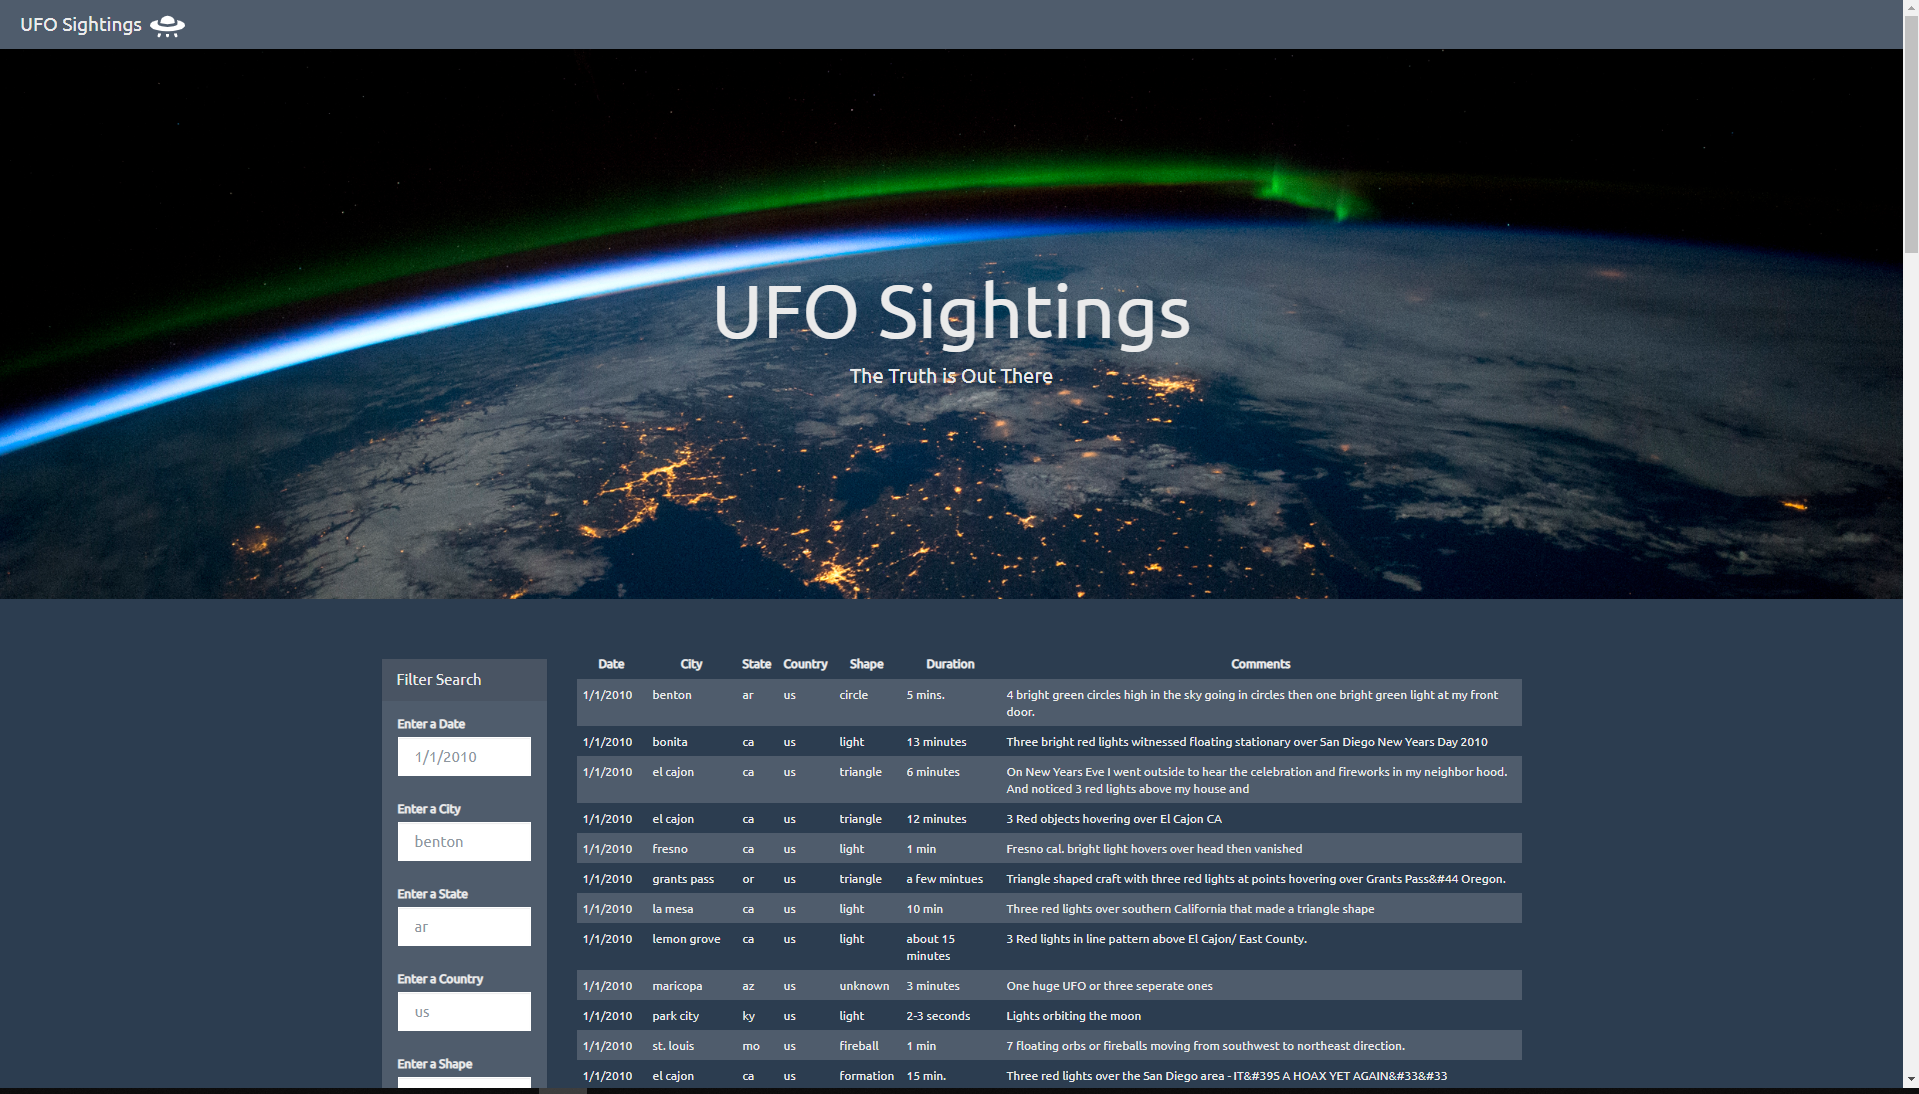
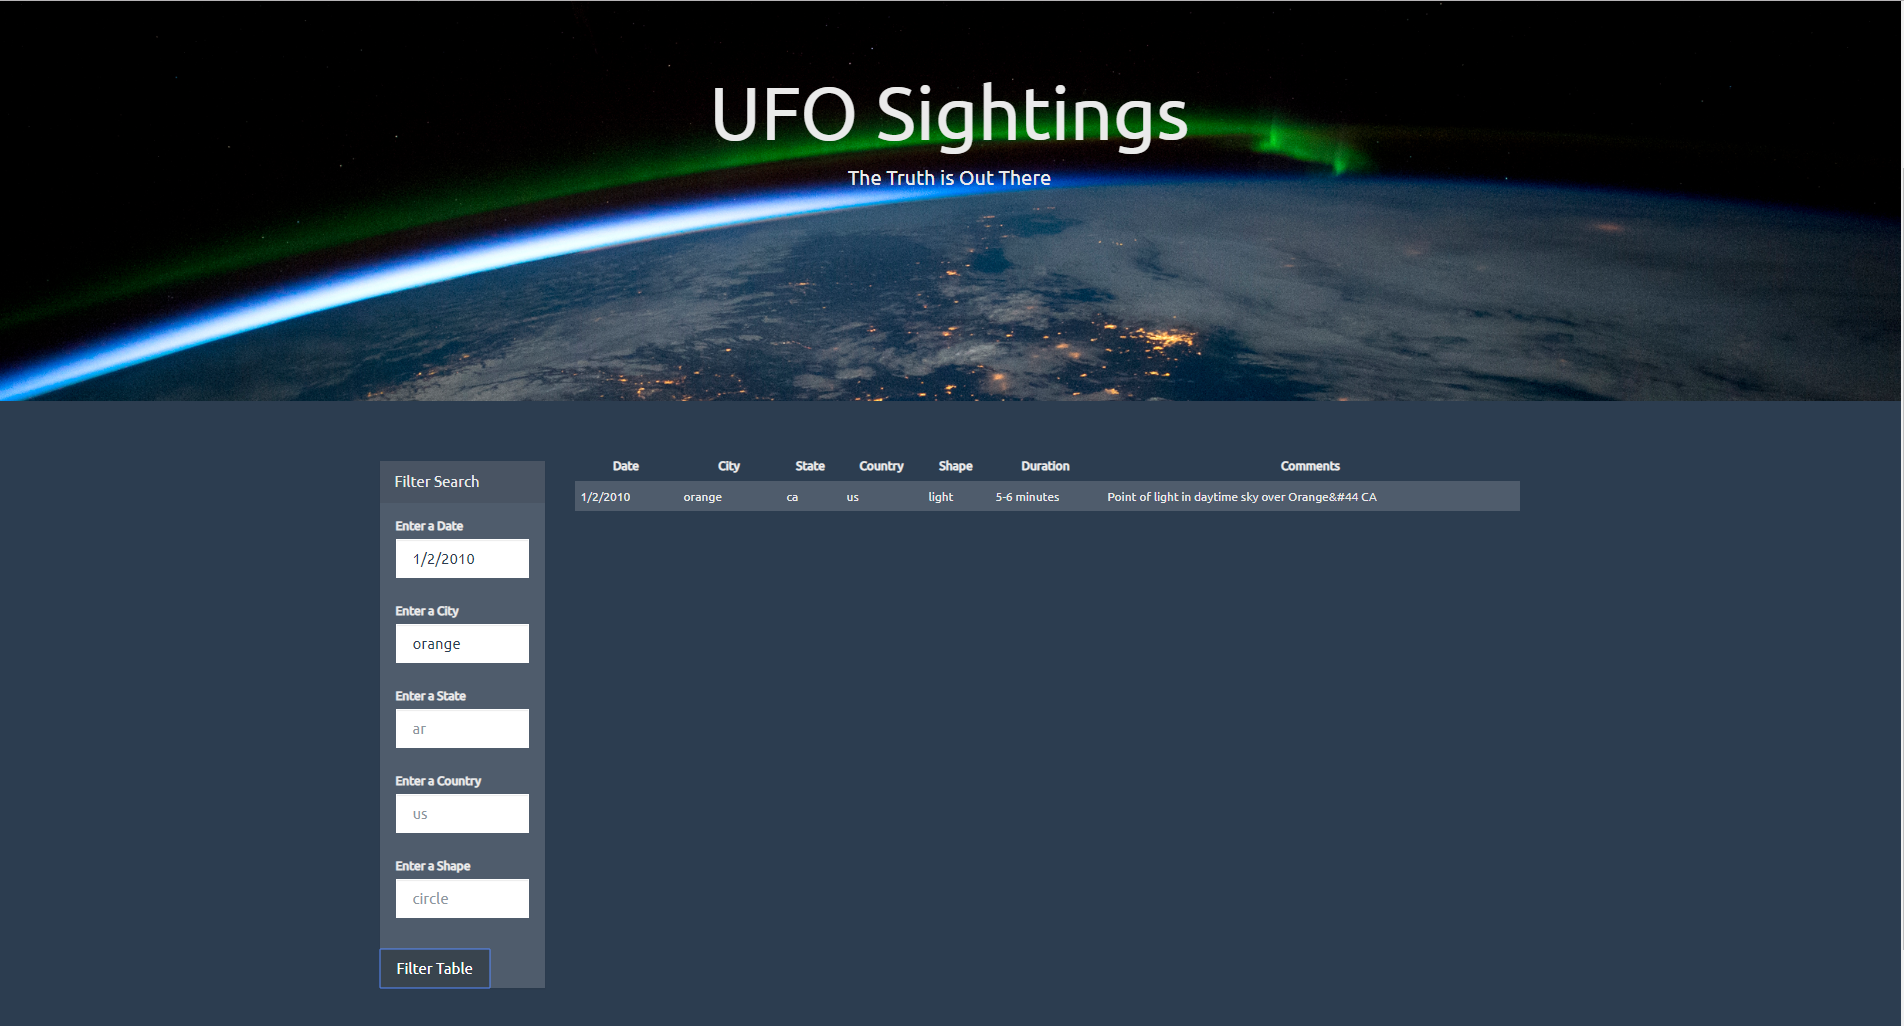
update image

diff --git a/README.md b/README.md
@@ -14,9 +14,24 @@ Create a table dynamically using dataset provided. Data are vizualized in a webp
  - CSS
  - D3.js 
 
+#### How to open the webpage
+ Right-click on "index.html", then open the file in "Default Browser". 
+<p align="center">
+    <img src="Image/OpenWeb.PNG">
+  </p>
+
+
 #### Level1
 Data are filter using the date. Users enter the target date in input box. 
-An example is shown below: 
+An example is shown below for "1/2/2010": 
 <p align="center">
     <img src="Image/Level1.PNG">
+  </p>
+  
+  
+#### Level2
+Data are filter using date, city, state, country and shape. Similarly to level 1, users enter the filter values in input boxes. 
+An example is shown below for {date: "1/2/2010" && city:"orange"} : 
+<p align="center">
+    <img src="Image/Level2.PNG">
   </p>
